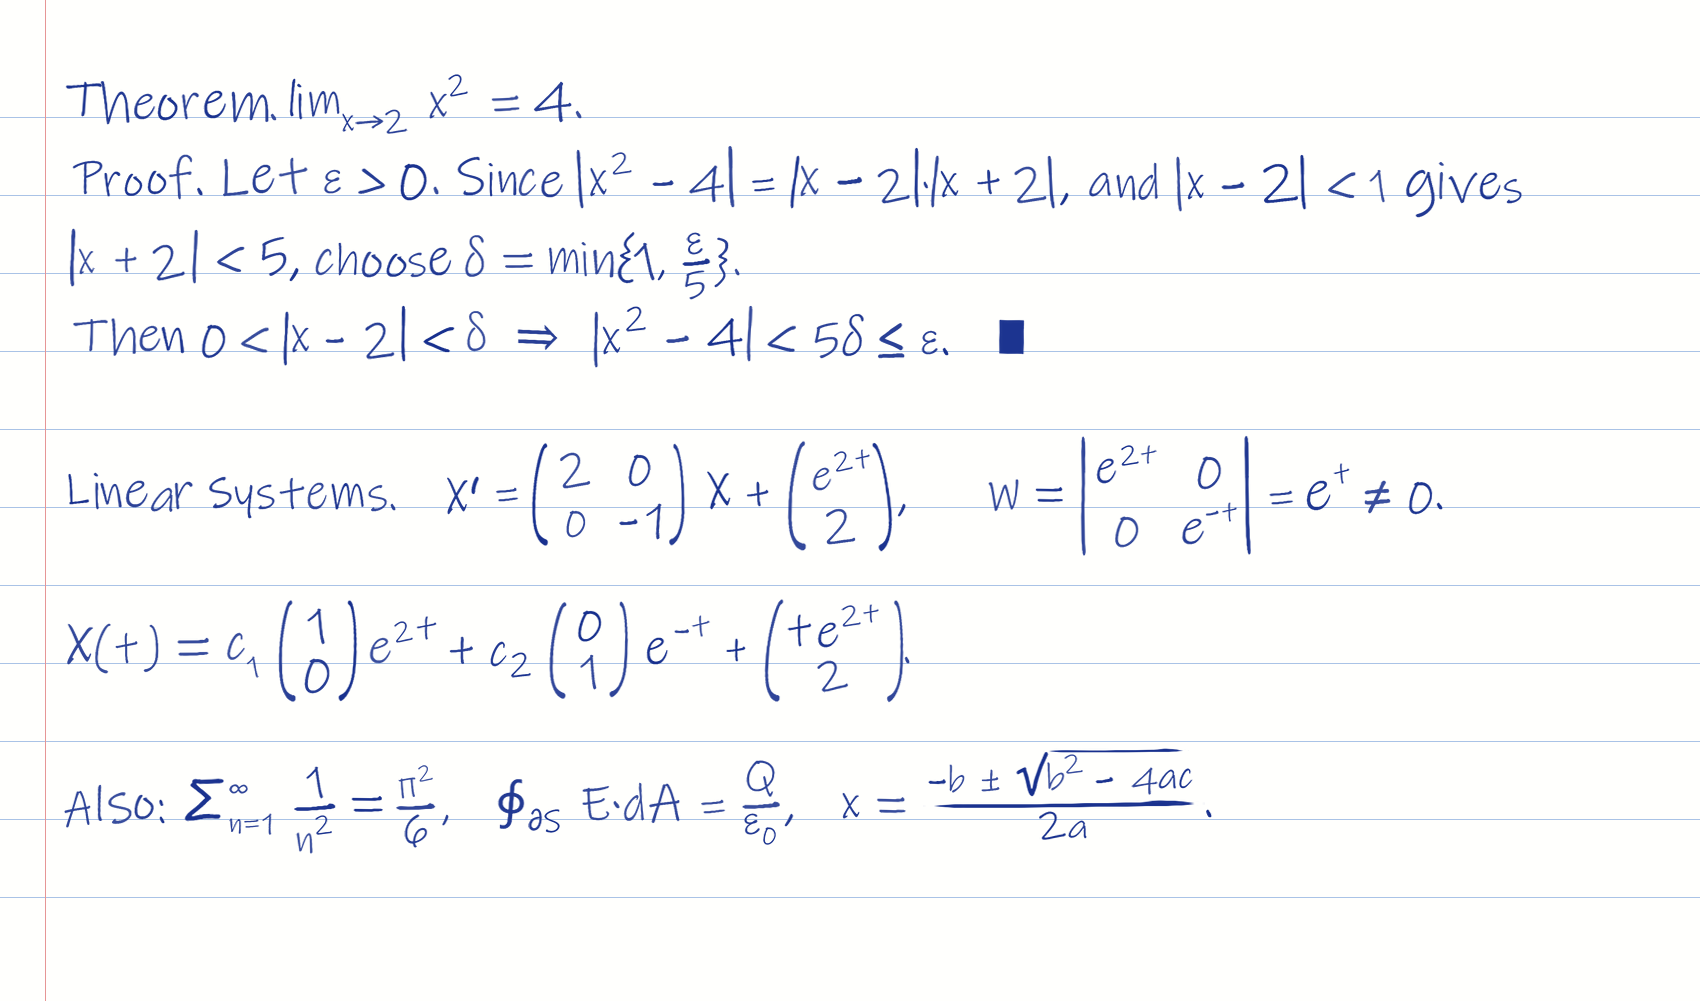
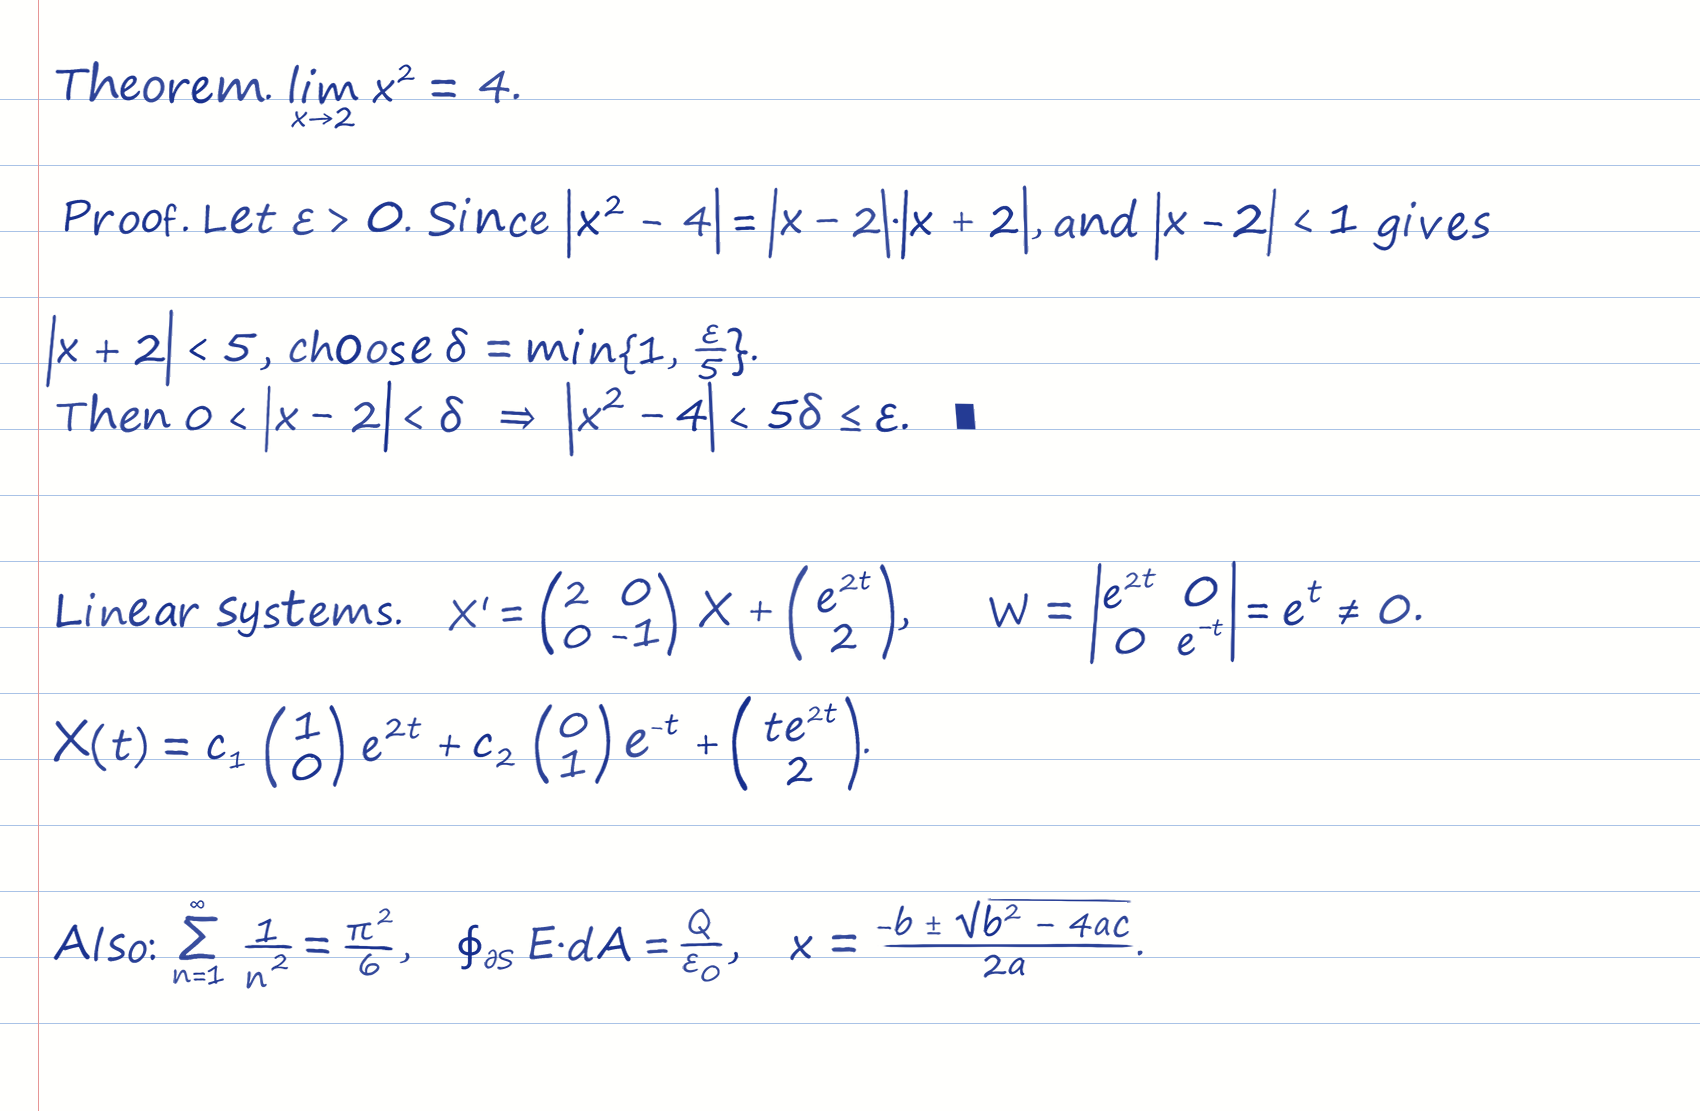
Fixes from a fresh-agent usability test
A new AI agent with no prior context followed AGENTS.md end to end
(demo, template, and converting a homework PDF to handwriting). Fixes for
what it tripped on:

- demo no longer leaves its internal template in the registry, so
  `status` keeps saying `sin_letra` instead of asking for a PDF that
  does not exist.
- Demo handwriting prefers Segoe Print: in Ink Free a small "t" read
  as "+" (e^{2t} looked like e^{2+}).
- Limits of sum/prod/lim/min/max/sup/inf go below and above the
  operator, as written by hand; sums and products are drawn larger.
- Lines containing matrices or stacked limits get real vertical
  clearance; normal lines keep the tight spacing.
- New --word-spacing option.
- AGENTS.md: defaults (blue, ruled, US-letter via --sheet), skipping pip
  when deps exist, how to handle bold/headings/boxes/centering, layout
  tips. FORMAT.md documents limits and unsupported formatting.

diff --git a/formulas.py b/formulas.py
@@ -28,6 +28,9 @@ SUB_SUP_SCALE = 0.62
 SHIFT = {1: 0.95, -1: -0.45}
 COMMANDS = ("\\frac", "\\pmat", "\\bmat", "\\vmat", "\\sqrt")
 BRACKETS = {"p": ("(", ")"), "b": ("[", "]"), "v": ("|", "|")}
+# Operadores cuyos límites se escriben debajo/encima (como a mano), no al lado
+BIG_OPS = set("∑∏∐⋃⋂")
+LIMIT_WORDS = ("lim", "lím", "máx", "mín", "max", "min", "sup", "inf")
 
 # Comandos de LaTeX que se convierten en un carácter (para que una IA pueda
 # escribir como está acostumbrada).
@@ -277,8 +280,10 @@ class Box:
     w: float = 0.0
     asc: float = 0.0       # lo más alto  (sobre la línea base)
     desc: float = 0.0      # lo más bajo  (negativo si baja de la línea base)
+    tall: bool = False     # contiene una matriz/vector: necesita aire vertical de verdad
 
     def add(self, other: "Box", dx, ddy):
+        self.tall = self.tall or other.tall
         for x, dy, g, s in other.items:
             self.items.append((x + dx, dy + ddy, g, s))
         if other.items:
@@ -296,19 +301,63 @@ def _stretch(g, fx=1.0, fy=1.0):
 
 
 class Layout:
-    def __init__(self, letra, rnd, bags, mode, espaciado, var_tamano, axis):
+    def __init__(self, letra, rnd, bags, mode, espaciado, var_tamano, axis, word_space=1.0):
         self.letra, self.rnd, self.bags, self.mode = letra, rnd, bags, mode
         self.gap, self.var, self.axis = espaciado, var_tamano, axis
+        self.word_space = word_space
 
     # -------------------------------------------------------------- nodos
+    def _op_len(self, nodes, i):
+        """¿Empieza en i un operador cuyos límites van debajo/encima? -> nº de nodos."""
+        nd = nodes[i]
+        n = len(nodes)
+        if isinstance(nd, Ch) and nd.ch in BIG_OPS and i + 1 < n and isinstance(nodes[i + 1], Script):
+            return 1
+        for word in LIMIT_WORDS:
+            k = len(word)
+            if (i + k < n and isinstance(nodes[i + k], Script) and nodes[i + k].pos < 0
+                    and all(isinstance(nodes[i + j], Ch) and nodes[i + j].ch == word[j] for j in range(k))
+                    and not (i > 0 and isinstance(nodes[i - 1], Ch) and nodes[i - 1].ch.isalpha())):
+                return k
+        return 0
+
+    def _with_limits(self, nodes, i, k, s):
+        """Operador (∑, ∏, lim…) con sus límites centrados debajo y encima."""
+        big = k == 1
+        op = self.seq(nodes[i:i + k], s * (1.3 if big else 1.0))
+        j, lims = i + k, []
+        while j < len(nodes) and isinstance(nodes[j], Script) and len(lims) < 2:
+            lims.append((nodes[j].pos, self.seq(nodes[j].body, s * SUB_SUP_SCALE)))
+            j += 1
+        W = max([op.w] + [b.w for _, b in lims])
+        out = Box()
+        out.add(op, (W - op.w) / 2, 0)
+        for pos, b in lims:
+            dy = (op.desc - 0.12 * s - b.asc) if pos < 0 else (op.asc + 0.1 * s - b.desc)
+            out.add(b, (W - b.w) / 2, dy)
+        out.w = W
+        out.tall = bool(lims)
+        return out, j
+
     def seq(self, nodes, s=1.0) -> Box:
         box, x = Box(), 0.0
         last_gap = 0.0
         prev_script = None          # (pos, x_inicio, x_fin) para apilar sub/super
-        for nd in nodes:
+        i = 0
+        while i < len(nodes):
+            nd = nodes[i]
+            i += 1
             if isinstance(nd, Ch) and nd.ch == " ":
-                x += self.letra.space_u * s
+                x += self.letra.space_u * s * self.word_space
                 last_gap = 0.0
+                prev_script = None
+                continue
+            k = self._op_len(nodes, i - 1)
+            if k:
+                b, i = self._with_limits(nodes, i - 1, k, s)
+                box.add(b, x, 0)
+                last_gap = self.gap * s
+                x += b.w + last_gap
                 prev_script = None
                 continue
             b = self.node(nd, s)
@@ -433,4 +482,5 @@ class Layout:
                 out.add(bbox, x, 0)
                 x += bw
         out.w = x
+        out.tall = True
         return out

diff --git a/escribir.py b/escribir.py
@@ -173,7 +173,8 @@ class Letra:
 # ------------------------------------------------------------------ maquetación
 def render(text, letra: Letra, *, xh=28, ancho=1700, alto=None, margen=None,
            interlineado=3.0, color="azul", papel="rayado", modo="aleatorio",
-           semilla=None, inclinacion=0.0, desorden=1.0, espaciado=0.12, formato=True, avisos=None):
+           semilla=None, inclinacion=0.0, desorden=1.0, espaciado=0.12, formato=True, avisos=None,
+           espacio_palabras=1.0):
     """Devuelve una lista de páginas (PIL RGBA). `xh` = altura de la x en px.
 
     alto=None -> una sola imagen tan alta como haga falta.
@@ -187,7 +188,9 @@ def render(text, letra: Letra, *, xh=28, ancho=1700, alto=None, margen=None,
     margen = int(margen if margen is not None else xh * 2.5)
     lh = xh * interlineado
     bags = {}
-    lay = F.Layout(letra, rnd, bags, modo, espaciado, 0.04 * desorden, ajustes.math_axis(letra.glyphs))
+    lay = F.Layout(letra, rnd, bags, modo, espaciado, 0.04 * desorden, ajustes.math_axis(letra.glyphs),
+                   word_space=espacio_palabras)
+    space = letra.space_u * xh * espacio_palabras
     max_w = ancho - 2 * margen
 
     # 1) partir en líneas (respetando saltos de línea y ajustando palabras)
@@ -204,7 +207,7 @@ def render(text, letra: Letra, *, xh=28, ancho=1700, alto=None, margen=None,
                 txt = "".join(getattr(nd, "ch", "▢") for nd in word)[:40]
                 avisos.append(f"Elemento más ancho que la página ({w / max_w:.0%} del ancho): «{txt}». "
                               "Pártelo en varias líneas o reduce --tamano.")
-            gap = letra.space_u * xh * (1 + rnd.gauss(0, 0.15 * desorden)) if cur else 0
+            gap = space * (1 + rnd.gauss(0, 0.15 * desorden)) if cur else 0
             if cur and cur_w + gap + w > max_w:
                 lines.append(cur)
                 cur, cur_w, gap = [], 0.0, 0
@@ -215,7 +218,7 @@ def render(text, letra: Letra, *, xh=28, ancho=1700, alto=None, margen=None,
     # 2) colocar cada línea en un renglón del papel (las altas ocupan varios) y paginar
     first_base = margen + xh * 2
     H_page = alto
-    pages_lines, page, prev_b, prev_bottom = [], [], None, None
+    pages_lines, page, prev_b, prev_bottom, prev_tall = [], [], None, None, False
     for line in lines:
         asc = max([b.asc for _, b in line] + [1.0]) * xh
         desc = min([b.desc for _, b in line] + [-0.3]) * xh
@@ -225,7 +228,11 @@ def render(text, letra: Letra, *, xh=28, ancho=1700, alto=None, margen=None,
                 b += lh
         else:
             b = prev_b + lh
-            while b - asc < prev_bottom - 0.45 * xh:     # se tolera que colas e índices se rocen
+            # en renglones normales se tolera que colas e índices se rocen; si hay algo alto
+            # (matrices, fracciones grandes) se deja aire de verdad
+            line_tall = any(bx.tall for _, bx in line)
+            tol = 0.25 * xh if (line_tall or prev_tall) else -0.45 * xh
+            while b - asc < prev_bottom + tol:
                 b += lh
         if H_page and page and b - desc > H_page - margen * 0.6:
             pages_lines.append(page)
@@ -234,7 +241,7 @@ def render(text, letra: Letra, *, xh=28, ancho=1700, alto=None, margen=None,
             while b - asc < margen * 0.5:
                 b += lh
         page.append((b, line))
-        prev_b, prev_bottom = b, b - desc
+        prev_b, prev_bottom, prev_tall = b, b - desc, any(bx.tall for _, bx in line)
     pages_lines.append(page)
 
     pages = []

diff --git a/holograph.py b/holograph.py
@@ -82,6 +82,8 @@ def cmd_estado(a, out):
             lay = json.loads(f.read_text(encoding="utf-8"))
         except ValueError:
             continue
+        if lay.get("title") in (DEMO_TITLE, "Demo"):  # plantilla interna de `demo`: no cuenta
+            continue
         templates.append({"id": lay["session"], "paginas": len(lay["pages"]),
                           "casillas": sum(len(p["cells"]) for p in lay["pages"]),
                           "importada": lay["session"] in imported})
@@ -241,7 +243,8 @@ def cmd_escribir(a, out):
     pages = E.render(text, letra, xh=a.tamano, ancho=1700, alto=2200 if a.hoja else None,
                      color=color, papel=papel, modo=modo, semilla=a.semilla,
                      inclinacion=a.inclinacion, desorden=a.desorden, espaciado=a.separacion,
-                     interlineado=a.interlineado, formato=not a.literal, avisos=avisos)
+                     interlineado=a.interlineado, formato=not a.literal, avisos=avisos,
+                     espacio_palabras=a.espacio_palabras)
     outs = [str(p) for p in E.save(pages, a.out)]
     vistas = []
     if a.vista:
@@ -273,9 +276,12 @@ def cmd_demo(a, out):
         tpl = Path(td) / "demo.pdf"
         written = Path(td) / "demo_escrito.pdf"
         spec = "latin:3,digitos:3,acentos:2,puntuacion:2,griego:2,matematicas:2"
-        P.build(C.parse_sets(spec), tpl, "Demo", spec)
-        S.simulate(str(tpl), str(written), vacias=0.0)
-        data, n = X.import_pdf(str(written), dst, log=lambda s: None)
+        _, _, reg = P.build(C.parse_sets(spec), tpl, DEMO_TITLE, spec)
+        try:
+            S.simulate(str(tpl), str(written), vacias=0.0)
+            data, n = X.import_pdf(str(written), dst, log=lambda s: None)
+        finally:
+            Path(reg).unlink(missing_ok=True)        # no dejar una plantilla «pendiente» en el registro
     out.put(carpeta_letra=str(dst), muestras=n, uso="holograph write --hand demo -f text.txt -o test.pdf")
     out.say(f"Letra de demostración creada en {dst} ({n} muestras).")
     out.say("Pruébala:  holograph write --hand demo \"x^2 + \\frac{1}{2}\" -o prueba.png")
@@ -303,6 +309,7 @@ def cmd_app(a, out):
 
 # ------------------------------------------------------------------ argumentos
 # Nombres en inglés (principales) y en español (alias). Valores también en ambos.
+DEMO_TITLE = "Holograph demo"
 COLOR_EN = {"black": "negro", "blue": "azul", "ballpoint": "boli", "red": "rojo",
             "green": "verde", "graphite": "grafito"}
 PAPER_EN = {"white": "blanco", "ruled": "rayado", "grid": "cuadriculado", "transparent": "transparente"}
@@ -376,6 +383,8 @@ def build_parser():
     p.add_argument("--slant", "--inclinacion", dest="inclinacion", type=float, default=0.0,
                    help="extra slant in degrees (positive = to the right)")
     p.add_argument("--spacing", "--separacion", dest="separacion", type=float, default=0.12, help="letter spacing")
+    p.add_argument("--word-spacing", "--espacio-palabras", dest="espacio_palabras", type=float, default=1.0,
+                   help="space between words (1 = normal, 1.4 = roomier)")
     p.add_argument("--line-height", "--interlineado", dest="interlineado", type=float, default=3.0,
                    help="distance between lines, in x-heights")
     p.add_argument("--seed", "--semilla", dest="semilla", type=int, help="fix the randomness (same output every time)")

diff --git a/comun.py b/comun.py
@@ -216,7 +216,8 @@ LABEL_FONTS = ["arial.ttf", "segoeui.ttf", "seguisym.ttf", "cambria.ttc", "times
                "DejaVuSans.ttf", "NotoSans-Regular.ttf", "NotoSansMath-Regular.ttf",
                "NotoSansSymbols-Regular.ttf", "Arial Unicode.ttf", "STIXGeneral.otf",
                "STIXTwoMath-Regular.otf", "LiberationSans-Regular.ttf", "FreeSerif.ttf"]
-HAND_FONTS = ["Inkfree.ttf", "segoesc.ttf", "Chalkboard.ttc", "Noteworthy.ttc", "MarkerFelt.ttc",
+# (Segoe Print primero: en Ink Free la «t» pequeña se confunde con «+»)
+HAND_FONTS = ["segoepr.ttf", "Inkfree.ttf", "segoesc.ttf", "Chalkboard.ttc", "Noteworthy.ttc", "MarkerFelt.ttc",
               "ComicNeue-Regular.ttf", "Caveat-Regular.ttf", "PatrickHand-Regular.ttf"]
 
 

diff --git a/tests/test_holograph.py b/tests/test_holograph.py
@@ -62,6 +62,20 @@ def home(tmp_path_factory):
     return h
 
 
+def test_demo_no_altera_estado(home):
+    d = run(["status"], home)
+    assert d["etapa"] == "sin_letra" and d["plantillas"] == [] and d["demo_disponible"]
+
+
+def test_limites_debajo_y_encima():
+    import formulas as F
+    lay = F.Layout.__new__(F.Layout)
+    nodes = F.parse(r"\sum_{n=1}^\infty a_n + \lim_{x \to 0} f + mín{1, 2} + x_i^2")
+    ops = [i for i in range(len(nodes)) if lay._op_len(nodes, i)]
+    chars = [nodes[i].ch for i in ops]
+    assert chars == ["∑", "l"]            # ∑ y lim; ni «mín{» (sin índice) ni x_i
+
+
 def test_estado_sin_letra(tmp_path):
     d = run(["estado"], tmp_path)
     assert d["etapa"] == "sin_letra"

diff --git a/AGENTS.md b/AGENTS.md
@@ -25,6 +25,7 @@ Spanish; every command and option also has an English name (used below).
 ## Install (once)
 
 ```bash
+python -c "import pymupdf, PIL, numpy"        # if this succeeds, skip the next line
 python -m pip install -r requirements.txt     # pymupdf, pillow, numpy (Python ≥ 3.10)
 python holograph.py status
 ```
@@ -47,7 +48,10 @@ Data location can be changed with the `HOLOGRAPH_HOME` environment variable.
    - Export the annotated document as PDF and bring it to the computer.
    - No tablet: print it, write with a black pen, scan to PDF (works, less precise).
 3. Meanwhile, to try things out: `python holograph.py demo` builds sample handwriting from
-   system fonts; pass `--hand demo` to the other commands.
+   system fonts into `datos/letra_demo/`. Pass `--hand demo` to `write`, `validate`, `chars`
+   and `review`. The demo does not change `status` (it still says `sin_letra` until the user
+   imports their own handwriting). It is a font-based imitation: tell the user it will look far
+   more natural with their real samples.
 
 ## Flow B — import the filled-in PDF (`etapa: esperando_pdf_escrito`)
 
@@ -70,22 +74,36 @@ This is the request you'll get most ("convert this PDF into my handwriting").
    Text extraction scatters matrices and fractions over separate lines: rebuild them from the
    mathematics, not line by line. If you can view the pages as images, use them to confirm structure.
 2. **Write `datos/textos/<name>.txt`** in the format of `docs/FORMAT.md` (summary below).
-   Everyday LaTeX is translated automatically.
+   Everyday LaTeX is translated automatically. Things the format cannot express and what to do:
+   - **bold / italics** (e.g. bold vectors **X**) → plain letters (handwriting has no bold);
+   - **headings** → their own line, with a blank line before;
+   - **centered display equations** → their own line (text is always left-aligned);
+   - **boxed answers** → write the answer on its own line; optionally add `✓` or `⇒` before it;
+   - **tables / figures** → describe them in text or tell the user they were left out.
+   When the user names a part of a document ("part (a)"), confirm the scope if the shared
+   introduction or title is ambiguous; by default include only that part.
 3. `python holograph.py validate datos/textos/<name>.txt --json`
    → fix `problemas` (braces, unknown commands). `sin_muestra` lists characters that will fall
    back to a system font: replace them with ones the user has (e.g. `•` → `–`) or tell the user.
 4. `python holograph.py write -f datos/textos/<name>.txt -o datos/salidas/<name>.pdf --sheet --preview --json`
+   Defaults: blue ink, ruled paper, x-height 24 px. `--sheet` paginates into **US-letter**
+   pages (the only page size); without it you get one tall image. So "letter-size, blue ink"
+   = `--sheet` (blue is already the default).
 5. **Inspect the previews** (`*_vista_NN.png`). Typical issues and fixes:
    - An equation split across two lines → insert a line break before it.
    - `avisos` saying an item is wider than the page → split the formula or lower `--size`.
-   - Too cramped/loose → `--size` (default 24), `--line-height`.
+   - Too cramped/loose → `--size`, `--line-height` (default 3), `--word-spacing` (default 1;
+     try 1.3 if words run together).
+   - Lines with tall matrices get extra room automatically; if something still touches the
+     line above, add an empty line before it.
 6. Deliver the PDF and mention anything you had to adapt.
 
 ### Format in 30 seconds
 
 | You write | Result |
 |---|---|
-| `x^2`, `e^{i(kx − ωt)}`, `a_n`, `x_{p,1}` | super/subscripts (`∑_{n=1}^∞` stacks them) |
+| `x^2`, `e^{i(kx − ωt)}`, `a_n`, `x_{p,1}` | super/subscripts (a sub + sup pair is stacked) |
+| `\sum_{n=1}^\infty`, `\prod_…^…`, `\lim_{x \to 0}` | limits **below/above** the operator (also `min max sup inf`) |
 | `\frac{a}{b}` | stacked fraction |
 | `\pmat{a & b ; c & d}` / `\pmat{1 ; 0}` | matrix / column vector in parentheses |
 | `\bmat{…}`, `\vmat{…}` | square brackets / determinant bars |
@@ -107,7 +125,7 @@ Plain Unicode works too: `ε₀ x² ∮ ⇒ ℏ`. Full list: `docs/FORMAT.md`.
 | `review` (`revisar`) | `revision.png` with every sample |
 | `chars` (`caracteres`) | available, derived and missing characters |
 | `validate` (`validar`) `FILE` | markup problems and characters without samples |
-| `write` (`escribir`) `(TEXT \| -f FILE \| stdin) -o OUT` | render `.pdf`/`.png`; `--sheet --preview --size --color --paper --messiness --slant --seed` |
+| `write` (`escribir`) `(TEXT \| -f FILE \| stdin) -o OUT` | render `.pdf`/`.png`; `--sheet --preview --size --color --paper --word-spacing --line-height --messiness --slant --seed` |
 | `demo` | sample handwriting without a tablet |
 | `export` (`exportar`) `ZIP` | back up the handwriting |
 | `app` | GUI for the user |

diff --git a/docs/FORMAT.md b/docs/FORMAT.md
@@ -17,7 +17,8 @@ from another character (see below) or, as a last resort, drawn with a fallback s
 | `x^2` | one character up |
 | `e^{2t}` | everything in braces up |
 | `a_n`, `x_{p,1}` | down |
-| `∑_{n=1}^∞`, `∫_0^{2π}` | a sub followed by a sup (or vice versa) is **stacked** |
+| `∫_0^{2π}`, `x_i^2` | a sub followed by a sup (or vice versa) is **stacked** on the right |
+| `∑_{n=1}^∞`, `∏_{k=1}^n`, `lim_{x→0}` | after `∑ ∏ ∐ ⋃ ⋂` and `lim lím min mín max máx sup inf` the limits go **below and above** (and `∑`/`∏` are drawn larger) |
 | `x^\alpha`, `x^\frac{1}{2}` | a command also works as an index |
 
 Braces that do **not** follow `^`, `_` or a command are written literally:
@@ -56,6 +57,13 @@ Brackets, bars, the radical sign and fraction bars are stretched versions of you
 
 A command that is not on the list is written literally, and `holograph validate` reports it
 as *comando desconocido* (unknown command).
+
+## Not supported (and what to do instead)
+
+Handwriting has no bold, italics, font sizes, centering, boxes or tables. When transcribing:
+bold/italic → plain letters; headings → their own line with a blank line before; centered
+display equations → their own line; boxed results → their own line (optionally preceded by
+`⇒` or `✓`); tables and figures → describe them or leave them out and say so.
 
 ## Literals
 

diff --git a/README.md b/README.md
@@ -86,7 +86,8 @@ python holograph.py app                      # graphical interface
 
 | You type | You get |
 |---|---|
-| `x^2`, `e^{2t}`, `a_n`, `\sum_{n=1}^\infty` | super/subscripts (stacked when both) |
+| `x^2`, `e^{2t}`, `a_n`, `x_i^2` | super/subscripts (stacked when both) |
+| `\sum_{n=1}^\infty`, `\lim_{x \to 0}` | limits below and above, as written by hand |
 | `\frac{a}{b}` | stacked fraction |
 | `\pmat{a & b ; c & d}`, `\pmat{1 ; 0}` | matrix / column vector (`\bmat`, `\vmat` for [ ] and | \|) |
 | `\sqrt{b^2 - 4ac}` | radical with a bar |
@@ -104,7 +105,7 @@ Full reference: [`docs/FORMAT.md`](docs/FORMAT.md).
 | `review` | contact sheet of all samples (discard bad ones) |
 | `chars` | characters you have, derived ones, missing ones |
 | `validate FILE` | check markup and characters without samples |
-| `write (TEXT \| -f FILE \| stdin) -o OUT` | render `.pdf`/`.png`: `--sheet --preview --size --color --paper --messiness --slant --seed` |
+| `write (TEXT \| -f FILE \| stdin) -o OUT` | render `.pdf`/`.png`: `--sheet --preview --size --color --paper --word-spacing --messiness --slant --seed` |
 | `demo` | sample handwriting, no tablet needed |
 | `export hand.zip` | back up your handwriting |
 | `app` | desktop GUI |

diff --git a/docs/FORMATO.md b/docs/FORMATO.md
@@ -17,7 +17,8 @@ otra (ver abajo) o, como último recurso, se dibuja con una fuente de respaldo
 | `x^2` | un carácter arriba |
 | `e^{2t}` | todo lo de las llaves arriba |
 | `a_n`, `x_{p,1}` | abajo |
-| `∑_{n=1}^∞`, `∫_0^{2π}` | sub y super seguidos se **apilan** |
+| `∫_0^{2π}`, `x_i^2` | sub y super seguidos se **apilan** a la derecha |
+| `∑_{n=1}^∞`, `∏_{k=1}^n`, `lím_{x→0}` | tras `∑ ∏ ∐ ⋃ ⋂` y `lim lím min mín max máx sup inf` los límites van **debajo y encima** |
 | `x^\alpha`, `x^\frac{1}{2}` | un comando también vale como índice |
 
 Las llaves que **no** siguen a `^`, `_` o a un comando se escriben tal cual:
